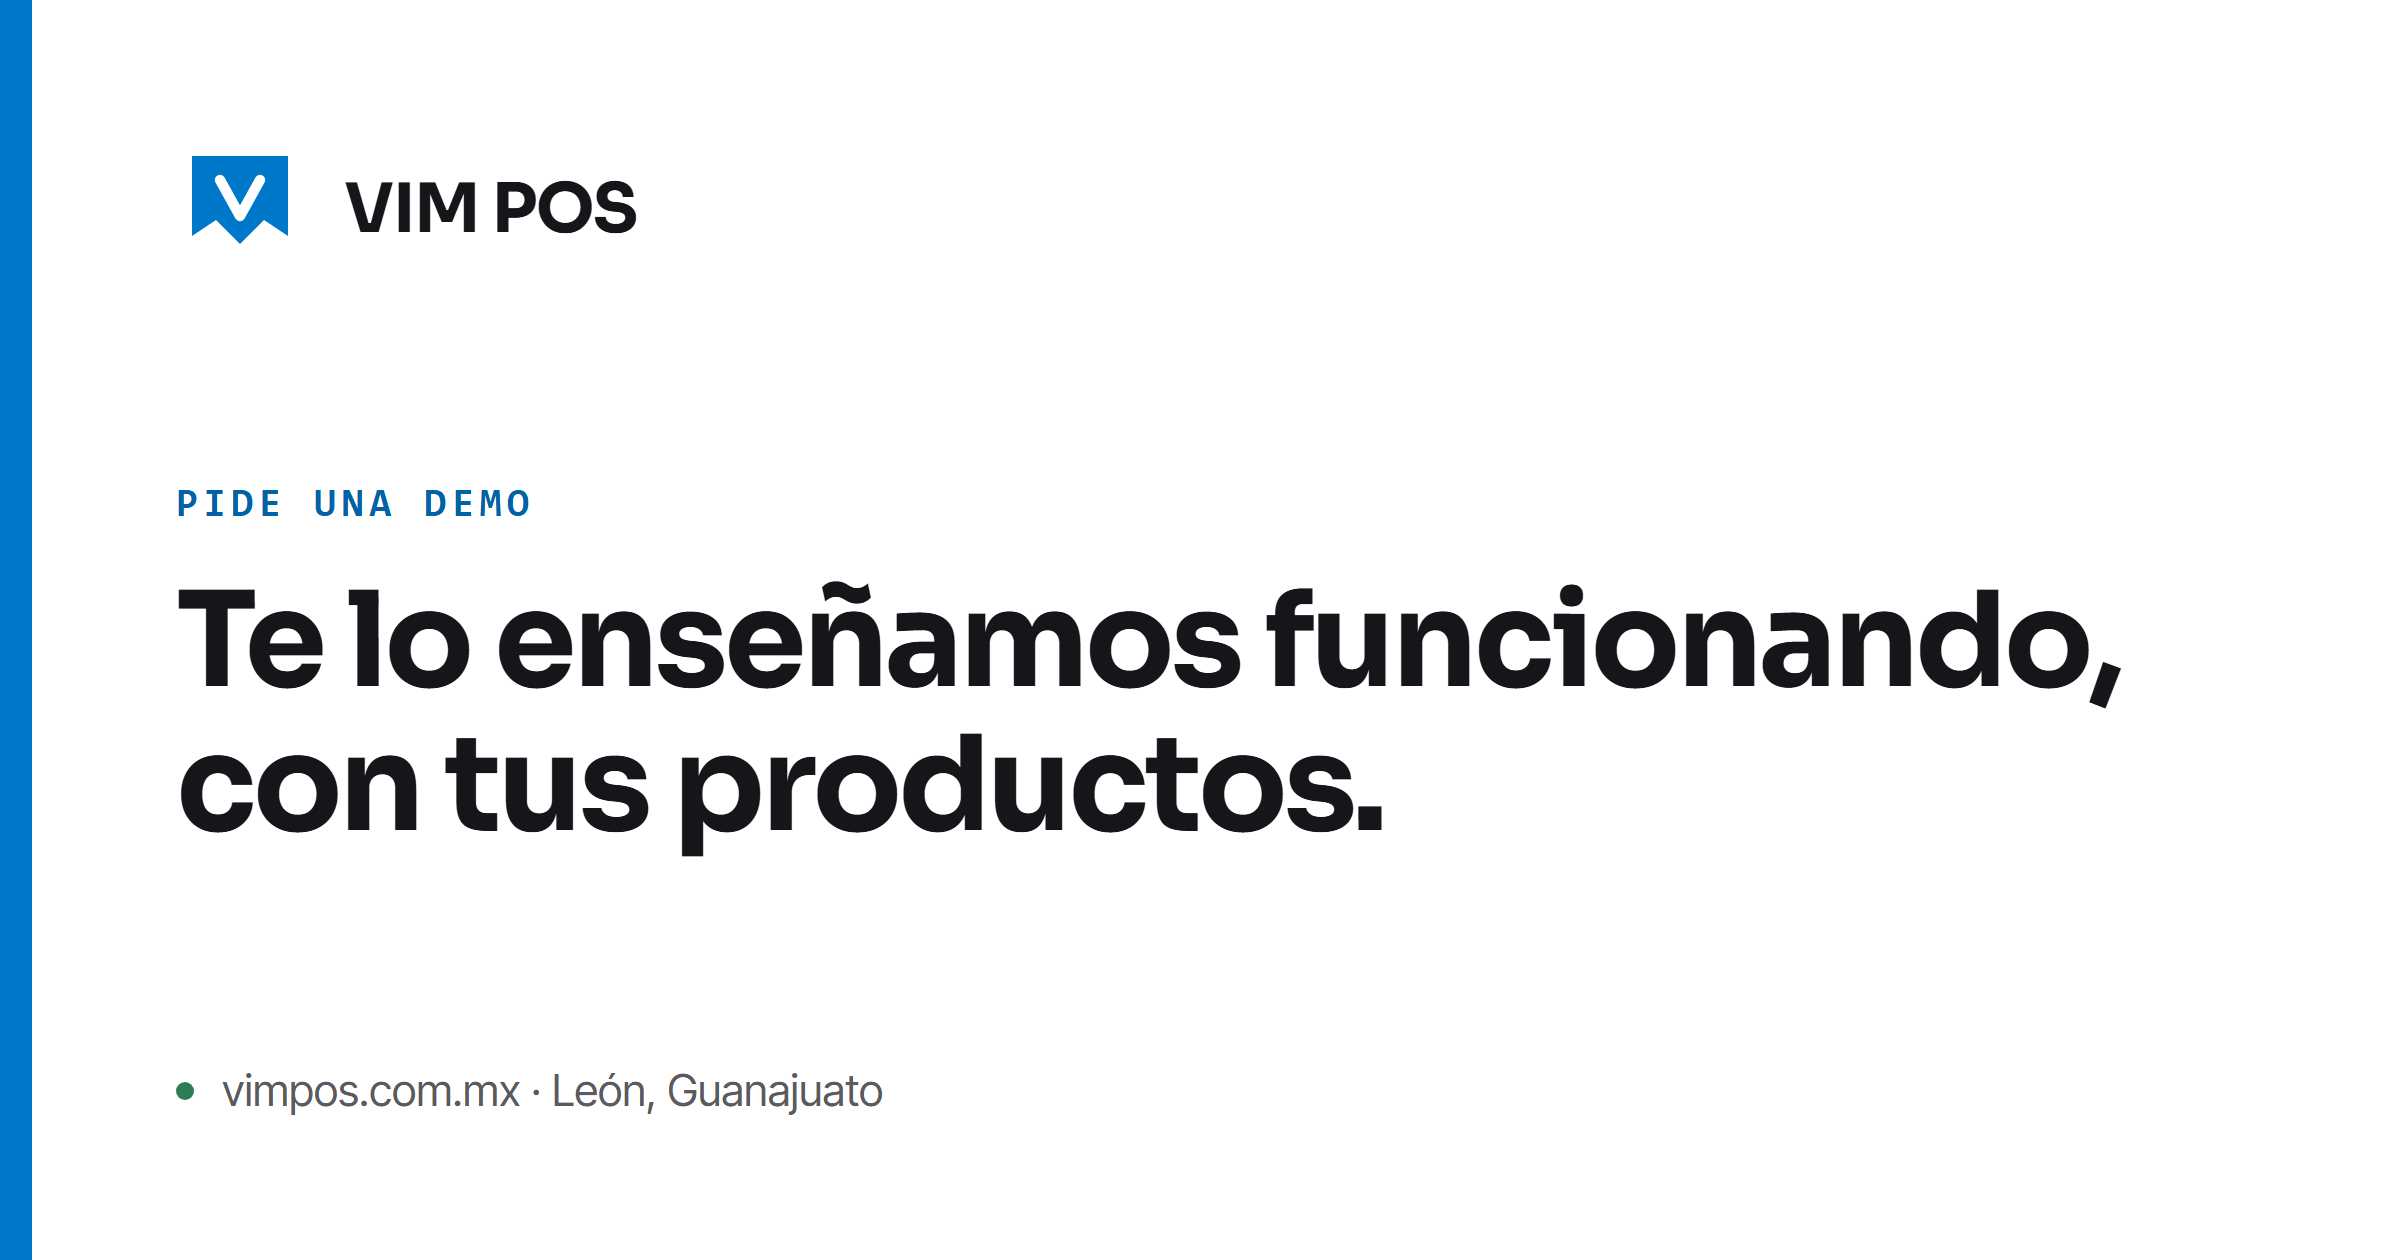
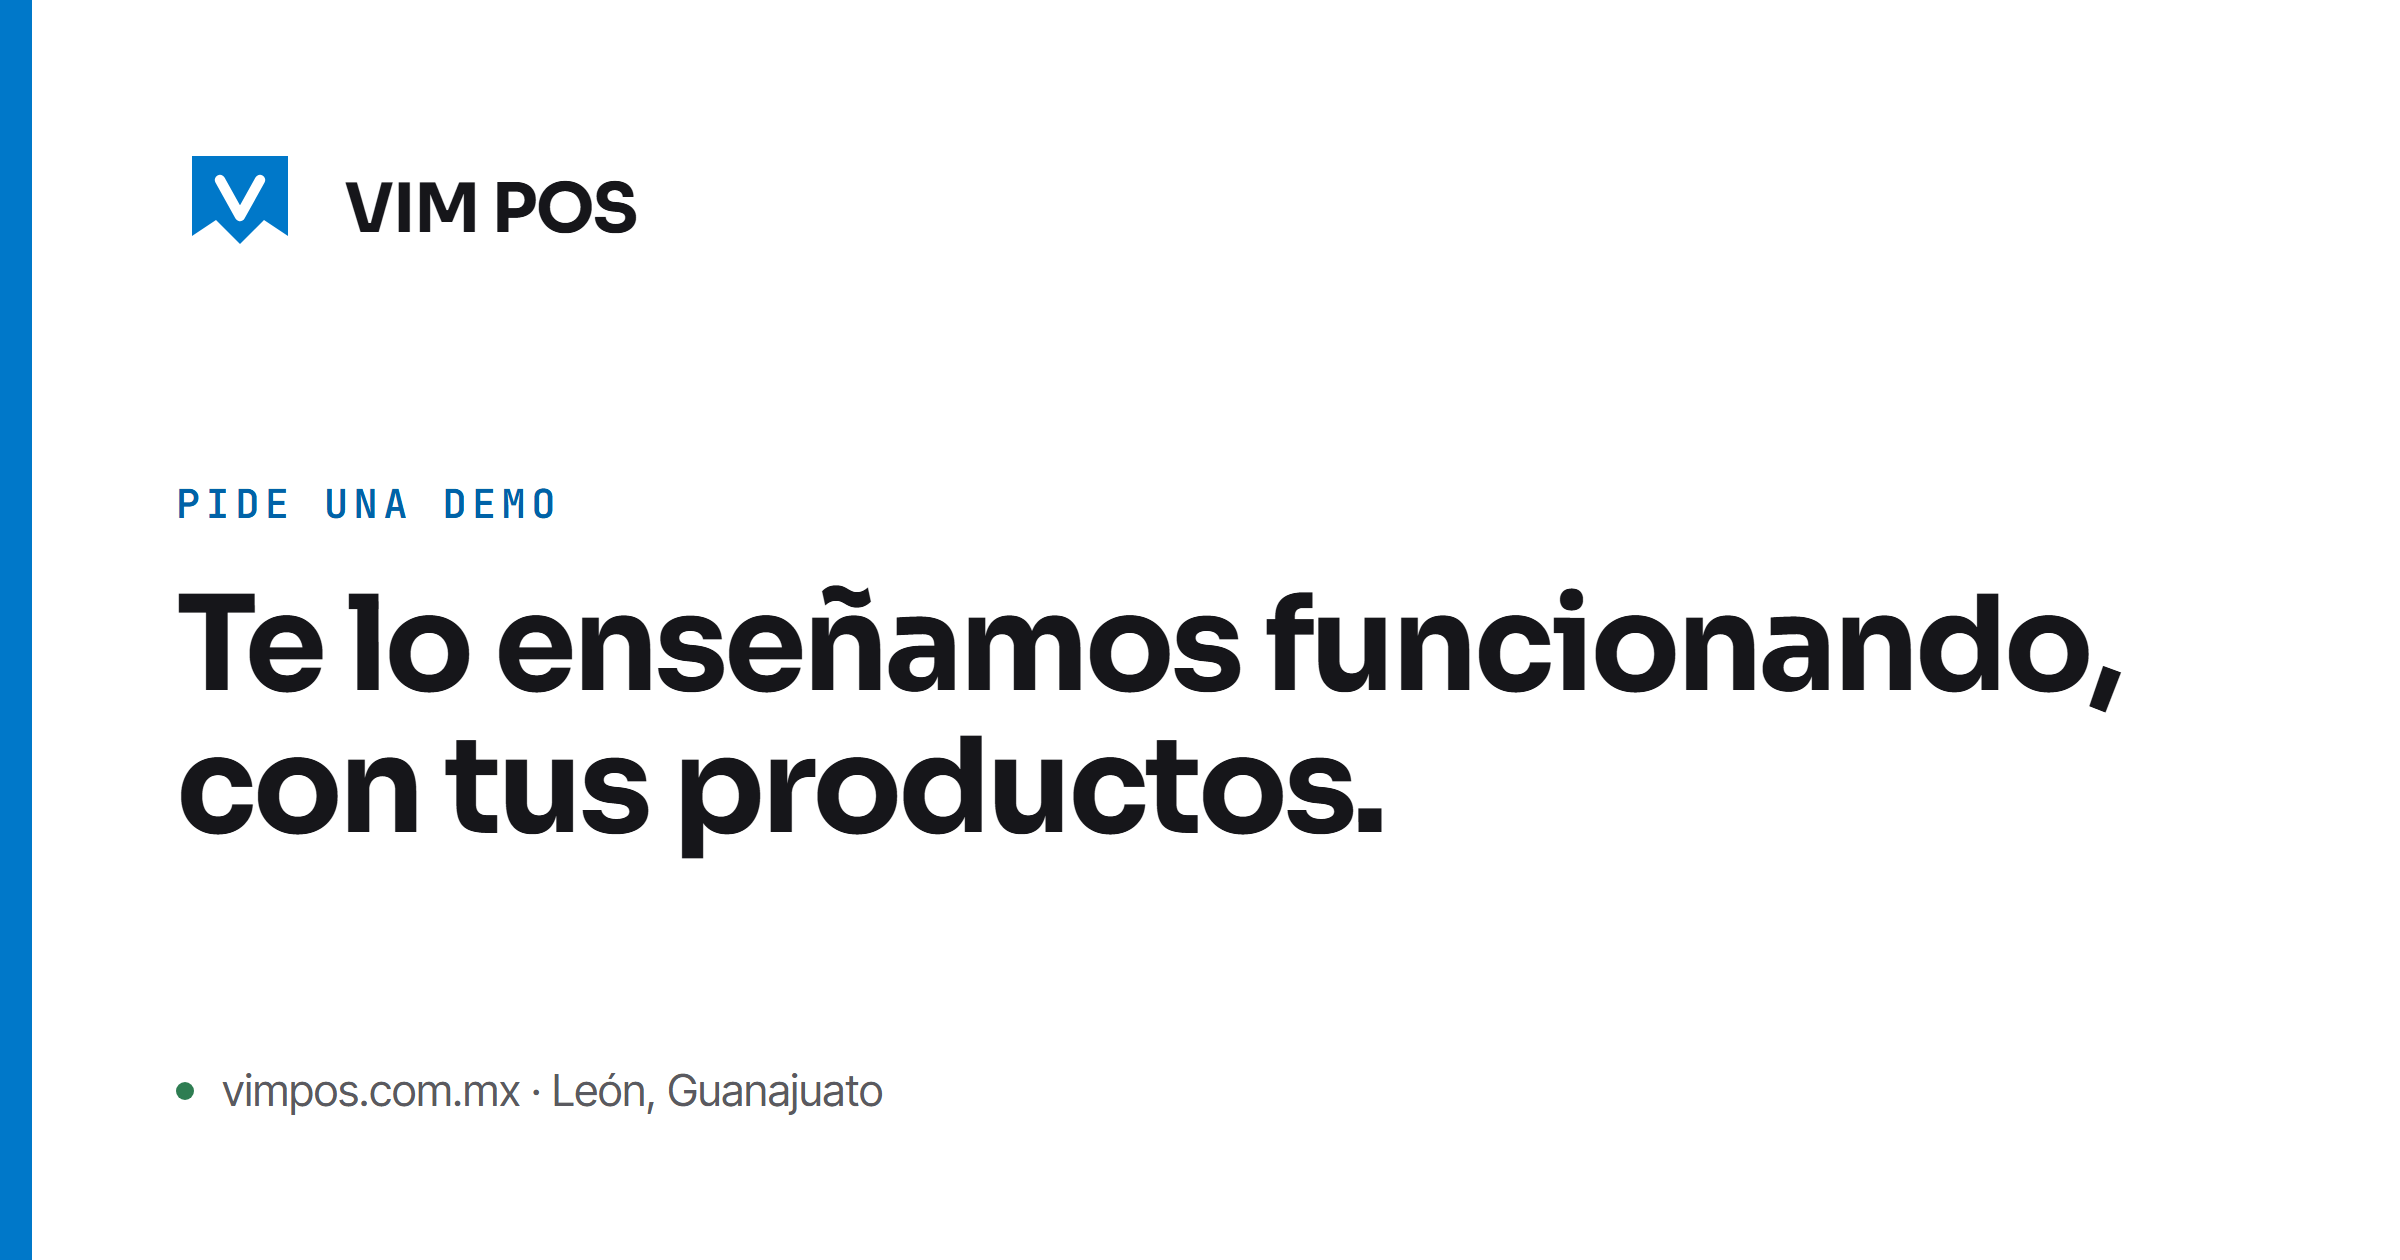
sitio: tres imágenes Open Graph propias y medición sin cookies
- OG: facturación, cómo elegir y cuánto cuesta ya no reutilizan la tarjeta
  de otra página. Las nueve se regeneran con la misma plantilla, que ahora
  sí carga JetBrains Mono para el rótulo (antes caía a la monoespaciada del
  sistema).
- Analítica: Vercel Web Analytics, servida desde este dominio y sin cookies.
  El script va en las catorce páginas; los cuatro eventos (clic en WhatsApp,
  demo enviada, precio anual, pregunta abierta) salen de vim.js por una cola
  que no rompe nada si el script no está. Falta encenderla en el proyecto de
  Vercel; hasta entonces el script es un 404 inofensivo.
- Aviso de privacidad: el párrafo de medición dice lo que se mide y con qué.
- Prueba de enlaces: `/_vercel/…` lo sirve la plataforma, no la carpeta.
- Versión de CSS y JS a 13.

diff --git a/sitio-web/assets/js/vim.js b/sitio-web/assets/js/vim.js
@@ -23,6 +23,26 @@
   var ANON = "eyJhbGciOiJIUzI1NiIsInR5cCI6IkpXVCJ9.eyJpc3MiOiJzdXBhYmFzZSIsInJlZiI6InBiaWF4enZtc3Nqc3hkd3FydW1iIiwicm9sZSI6ImFub24iLCJpYXQiOjE3ODAyNTMyMzIsImV4cCI6MjA5NTgyOTIzMn0.OsfFcqw-jrj-qZtFkUPQCrLgYtnDmsOxC93iLJShpKs";
   var WHATSAPP = "524761273020";
 
+  /* ---- Medición sin cookies ----------------------------------------------
+     Vercel Web Analytics: el script se sirve desde este mismo dominio, no pone
+     cookies y no identifica a nadie (el aviso de privacidad lo dice así).
+     Esta cola guarda los eventos que ocurran antes de que cargue el script;
+     él la vacía al arrancar. Si el script no está (analítica apagada en
+     Vercel, o el servidor local), nada se rompe: la cola crece y ya.
+
+     Cuatro eventos, los que dicen si el sitio vende: clic en WhatsApp, demo
+     enviada, cambio a precio anual y qué pregunta se abre. */
+  window.va = window.va || function () { (window.vaq = window.vaq || []).push(arguments); };
+  function medir(nombre, datos) {
+    try { window.va("event", { name: nombre, data: datos || {} }); } catch (e) { /* nunca estorba */ }
+  }
+
+  document.querySelectorAll('a[href*="wa.me/"]').forEach(function (a) {
+    a.addEventListener("click", function () {
+      medir("whatsapp", { pagina: location.pathname });
+    });
+  });
+
   /* ---- Menú móvil: cajón lateral ------------------------------------------
      La animación es CSS puro (`translateX`), así que aquí no se mide ni se
      escribe ningún alto — eso era la versión anterior, que se desplegaba hacia
@@ -154,6 +174,7 @@
       panel.style.height = abierto ? "0px" : panel.scrollHeight + "px";
       item.setAttribute("data-abierto", String(!abierto));
       boton.setAttribute("aria-expanded", String(!abierto));
+      if (!abierto) medir("acordeon", { titulo: boton.textContent.trim().slice(0, 80), pagina: location.pathname });
     });
   });
 
@@ -199,6 +220,8 @@
         document.querySelectorAll("[data-nota-periodo]").forEach(function (n) {
           n.textContent = anual ? "al mes, pagando el año, más IVA" : "al mes, más IVA";
         });
+
+        if (anual) medir("precio_anual");
       });
     });
   }
@@ -328,6 +351,7 @@
           form.hidden = true;
           listo.hidden = false;
           listo.querySelector("h2").focus();
+          medir("demo_enviada");
         })
         .catch(function (err) {
           /* El error no deja al visitante sin salida: se le ofrece WhatsApp,

diff --git a/sitio-web/aviso-privacidad.html b/sitio-web/aviso-privacidad.html
@@ -36,7 +36,7 @@
 <link rel="manifest" href="site.webmanifest">
 <meta name="theme-color" content="#0078C9">
 
-<link rel="stylesheet" href="assets/css/vim.css?v=12">
+<link rel="stylesheet" href="assets/css/vim.css?v=13">
 </head>
 <body>
 
@@ -224,8 +224,12 @@
             para verse está en este mismo sitio, así que tu visita no se le anuncia a nadie más.
           </p>
           <p>
-            Si más adelante medimos las visitas, será con una herramienta sin cookies y que no
-            identifica a nadie. Si eso cambiara, se actualizaría este aviso antes.
+            <strong>Sí medimos las visitas</strong>, con la herramienta del proveedor que aloja el
+            sitio (Vercel Web Analytics). No usa cookies, no guarda tu dirección IP y no identifica
+            a nadie: cuenta cuántas personas ven cada página, desde qué país y en qué tipo de
+            dispositivo, y si se hizo clic en WhatsApp, se envió el formulario de demostración, se
+            consultó el precio anual o se abrió una pregunta frecuente. No hay forma de saber quién
+            hizo cada cosa. Si esto cambiara, se actualizaría este aviso antes.
           </p>
         </div>
 
@@ -301,7 +305,11 @@
   </div>
 </footer>
 
-<script src="assets/js/vim.js?v=12" defer></script>
+<script src="assets/js/vim.js?v=13" defer></script>
+<!-- Medición sin cookies (Vercel Web Analytics). Se sirve desde este dominio y
+     solo existe si está encendida en el proyecto de Vercel; si no, es un 404
+     inofensivo. Los eventos se mandan desde vim.js. -->
+<script defer src="/_vercel/insights/script.js"></script>
 <script type="application/ld+json">
 {
   "@context": "https://schema.org",

diff --git a/sitio-web/cuanto-cuesta-un-sistema-para-restaurante.html b/sitio-web/cuanto-cuesta-un-sistema-para-restaurante.html
@@ -15,7 +15,7 @@
 <meta property="og:title" content="Cuánto cuesta de verdad un sistema para restaurante">
 <meta property="og:description" content="Licencia fija, gratuito o porcentaje por venta. La aritmética para comparar los tres con tu venta real.">
 <meta property="og:url" content="https://vimpos.com.mx/cuanto-cuesta-un-sistema-para-restaurante">
-<meta property="og:image" content="https://vimpos.com.mx/assets/img/og/precios.png">
+<meta property="og:image" content="https://vimpos.com.mx/assets/img/og/cuanto-cuesta.png">
 <meta property="og:image:width" content="1200">
 <meta property="og:image:height" content="630">
 <meta property="og:image:alt" content="VIM POS, punto de venta para restaurantes en Mexico">
@@ -36,7 +36,7 @@
 <link rel="manifest" href="site.webmanifest">
 <meta name="theme-color" content="#0078C9">
 
-<link rel="stylesheet" href="assets/css/vim.css?v=12">
+<link rel="stylesheet" href="assets/css/vim.css?v=13">
 </head>
 <body>
 
@@ -312,7 +312,11 @@
   </div>
 </footer>
 
-<script src="assets/js/vim.js?v=12" defer></script>
+<script src="assets/js/vim.js?v=13" defer></script>
+<!-- Medición sin cookies (Vercel Web Analytics). Se sirve desde este dominio y
+     solo existe si está encendida en el proyecto de Vercel; si no, es un 404
+     inofensivo. Los eventos se mandan desde vim.js. -->
+<script defer src="/_vercel/insights/script.js"></script>
 
 <script type="application/ld+json">
 {

diff --git a/sitio-web/como-elegir-sistema-restaurante.html b/sitio-web/como-elegir-sistema-restaurante.html
@@ -15,7 +15,7 @@
 <meta property="og:title" content="Cómo elegir el sistema para tu restaurante">
 <meta property="og:description" content="Nueve preguntas que conviene hacerle a cualquier proveedor antes de firmar. Incluye en qué casos VIM POS no es la respuesta.">
 <meta property="og:url" content="https://vimpos.com.mx/como-elegir-sistema-restaurante">
-<meta property="og:image" content="https://vimpos.com.mx/assets/img/og/home.png">
+<meta property="og:image" content="https://vimpos.com.mx/assets/img/og/como-elegir.png">
 <meta property="og:image:width" content="1200">
 <meta property="og:image:height" content="630">
 <meta property="og:image:alt" content="VIM POS, punto de venta para restaurantes en Mexico">
@@ -36,7 +36,7 @@
 <link rel="manifest" href="site.webmanifest">
 <meta name="theme-color" content="#0078C9">
 
-<link rel="stylesheet" href="assets/css/vim.css?v=12">
+<link rel="stylesheet" href="assets/css/vim.css?v=13">
 </head>
 <body>
 
@@ -355,7 +355,11 @@
   </div>
 </footer>
 
-<script src="assets/js/vim.js?v=12" defer></script>
+<script src="assets/js/vim.js?v=13" defer></script>
+<!-- Medición sin cookies (Vercel Web Analytics). Se sirve desde este dominio y
+     solo existe si está encendida en el proyecto de Vercel; si no, es un 404
+     inofensivo. Los eventos se mandan desde vim.js. -->
+<script defer src="/_vercel/insights/script.js"></script>
 
 <script type="application/ld+json">
 {

diff --git a/sitio-web/facturacion-cfdi.html b/sitio-web/facturacion-cfdi.html
@@ -15,7 +15,7 @@
 <meta property="og:title" content="Facturación CFDI 4.0 para tu restaurante">
 <meta property="og:description" content="Autofactura por QR desde el ticket, factura global automática, y el periodo lo eliges tú. Sin e.firma.">
 <meta property="og:url" content="https://vimpos.com.mx/facturacion-cfdi">
-<meta property="og:image" content="https://vimpos.com.mx/assets/img/og/funciones.png">
+<meta property="og:image" content="https://vimpos.com.mx/assets/img/og/facturacion-cfdi.png">
 <meta property="og:image:width" content="1200">
 <meta property="og:image:height" content="630">
 <meta property="og:image:alt" content="VIM POS, punto de venta para restaurantes en Mexico">
@@ -36,7 +36,7 @@
 <link rel="manifest" href="site.webmanifest">
 <meta name="theme-color" content="#0078C9">
 
-<link rel="stylesheet" href="assets/css/vim.css?v=12">
+<link rel="stylesheet" href="assets/css/vim.css?v=13">
 </head>
 <body>
 
@@ -410,7 +410,11 @@
   </div>
 </footer>
 
-<script src="assets/js/vim.js?v=12" defer></script>
+<script src="assets/js/vim.js?v=13" defer></script>
+<!-- Medición sin cookies (Vercel Web Analytics). Se sirve desde este dominio y
+     solo existe si está encendida en el proyecto de Vercel; si no, es un 404
+     inofensivo. Los eventos se mandan desde vim.js. -->
+<script defer src="/_vercel/insights/script.js"></script>
 
 <script type="application/ld+json">
 {

diff --git a/sitio-web/demo.html b/sitio-web/demo.html
@@ -36,7 +36,7 @@
 <link rel="manifest" href="site.webmanifest">
 <meta name="theme-color" content="#0078C9">
 
-<link rel="stylesheet" href="assets/css/vim.css?v=12">
+<link rel="stylesheet" href="assets/css/vim.css?v=13">
 </head>
 <body>
 
@@ -313,7 +313,11 @@
   </div>
 </footer>
 
-<script src="assets/js/vim.js?v=12" defer></script>
+<script src="assets/js/vim.js?v=13" defer></script>
+<!-- Medición sin cookies (Vercel Web Analytics). Se sirve desde este dominio y
+     solo existe si está encendida en el proyecto de Vercel; si no, es un 404
+     inofensivo. Los eventos se mandan desde vim.js. -->
+<script defer src="/_vercel/insights/script.js"></script>
 <script type="application/ld+json">
 {
   "@context": "https://schema.org",

diff --git a/sitio-web/funciones.html b/sitio-web/funciones.html
@@ -36,7 +36,7 @@
 <link rel="manifest" href="site.webmanifest">
 <meta name="theme-color" content="#0078C9">
 
-<link rel="stylesheet" href="assets/css/vim.css?v=12">
+<link rel="stylesheet" href="assets/css/vim.css?v=13">
 </head>
 <body>
 
@@ -616,7 +616,11 @@
   </div>
 </footer>
 
-<script src="assets/js/vim.js?v=12" defer></script>
+<script src="assets/js/vim.js?v=13" defer></script>
+<!-- Medición sin cookies (Vercel Web Analytics). Se sirve desde este dominio y
+     solo existe si está encendida en el proyecto de Vercel; si no, es un 404
+     inofensivo. Los eventos se mandan desde vim.js. -->
+<script defer src="/_vercel/insights/script.js"></script>
 <script type="application/ld+json">
 {
   "@context": "https://schema.org",

diff --git a/sitio-web/precios.html b/sitio-web/precios.html
@@ -36,7 +36,7 @@
 <link rel="manifest" href="site.webmanifest">
 <meta name="theme-color" content="#0078C9">
 
-<link rel="stylesheet" href="assets/css/vim.css?v=12">
+<link rel="stylesheet" href="assets/css/vim.css?v=13">
 </head>
 <body>
 
@@ -681,7 +681,11 @@
   </div>
 </footer>
 
-<script src="assets/js/vim.js?v=12" defer></script>
+<script src="assets/js/vim.js?v=13" defer></script>
+<!-- Medición sin cookies (Vercel Web Analytics). Se sirve desde este dominio y
+     solo existe si está encendida en el proyecto de Vercel; si no, es un 404
+     inofensivo. Los eventos se mandan desde vim.js. -->
+<script defer src="/_vercel/insights/script.js"></script>
 <script type="application/ld+json">
 {
   "@context": "https://schema.org",

diff --git a/sitio-web/sin-internet.html b/sitio-web/sin-internet.html
@@ -36,7 +36,7 @@
 <link rel="manifest" href="site.webmanifest">
 <meta name="theme-color" content="#0078C9">
 
-<link rel="stylesheet" href="assets/css/vim.css?v=12">
+<link rel="stylesheet" href="assets/css/vim.css?v=13">
 </head>
 <body>
 
@@ -542,7 +542,11 @@
   </div>
 </footer>
 
-<script src="assets/js/vim.js?v=12" defer></script>
+<script src="assets/js/vim.js?v=13" defer></script>
+<!-- Medición sin cookies (Vercel Web Analytics). Se sirve desde este dominio y
+     solo existe si está encendida en el proyecto de Vercel; si no, es un 404
+     inofensivo. Los eventos se mandan desde vim.js. -->
+<script defer src="/_vercel/insights/script.js"></script>
 <script type="application/ld+json">
 {
   "@context": "https://schema.org",

diff --git a/sitio-web/terminos.html b/sitio-web/terminos.html
@@ -36,7 +36,7 @@
 <link rel="manifest" href="site.webmanifest">
 <meta name="theme-color" content="#0078C9">
 
-<link rel="stylesheet" href="assets/css/vim.css?v=12">
+<link rel="stylesheet" href="assets/css/vim.css?v=13">
 </head>
 <body>
 
@@ -343,7 +343,11 @@
   </div>
 </footer>
 
-<script src="assets/js/vim.js?v=12" defer></script>
+<script src="assets/js/vim.js?v=13" defer></script>
+<!-- Medición sin cookies (Vercel Web Analytics). Se sirve desde este dominio y
+     solo existe si está encendida en el proyecto de Vercel; si no, es un 404
+     inofensivo. Los eventos se mandan desde vim.js. -->
+<script defer src="/_vercel/insights/script.js"></script>
 <script type="application/ld+json">
 {
   "@context": "https://schema.org",

diff --git a/sitio-web/contacto.html b/sitio-web/contacto.html
@@ -36,7 +36,7 @@
 <link rel="manifest" href="site.webmanifest">
 <meta name="theme-color" content="#0078C9">
 
-<link rel="stylesheet" href="assets/css/vim.css?v=12">
+<link rel="stylesheet" href="assets/css/vim.css?v=13">
 </head>
 <body>
 
@@ -262,7 +262,11 @@
 }
 </script>
 
-<script src="assets/js/vim.js?v=12" defer></script>
+<script src="assets/js/vim.js?v=13" defer></script>
+<!-- Medición sin cookies (Vercel Web Analytics). Se sirve desde este dominio y
+     solo existe si está encendida en el proyecto de Vercel; si no, es un 404
+     inofensivo. Los eventos se mandan desde vim.js. -->
+<script defer src="/_vercel/insights/script.js"></script>
 <script type="application/ld+json">
 {
   "@context": "https://schema.org",

diff --git a/sitio-web/nosotros.html b/sitio-web/nosotros.html
@@ -36,7 +36,7 @@
 <link rel="manifest" href="site.webmanifest">
 <meta name="theme-color" content="#0078C9">
 
-<link rel="stylesheet" href="assets/css/vim.css?v=12">
+<link rel="stylesheet" href="assets/css/vim.css?v=13">
 </head>
 <body>
 
@@ -288,7 +288,11 @@
 }
 </script>
 
-<script src="assets/js/vim.js?v=12" defer></script>
+<script src="assets/js/vim.js?v=13" defer></script>
+<!-- Medición sin cookies (Vercel Web Analytics). Se sirve desde este dominio y
+     solo existe si está encendida en el proyecto de Vercel; si no, es un 404
+     inofensivo. Los eventos se mandan desde vim.js. -->
+<script defer src="/_vercel/insights/script.js"></script>
 <script type="application/ld+json">
 {
   "@context": "https://schema.org",
